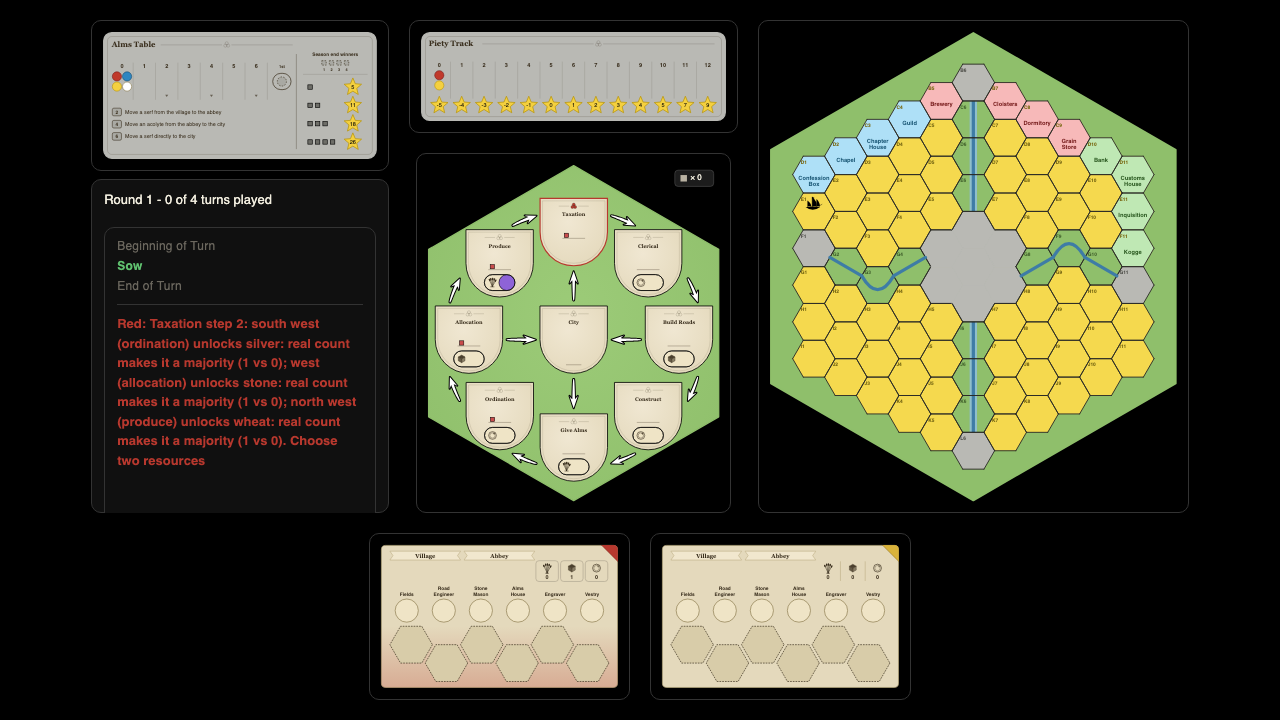
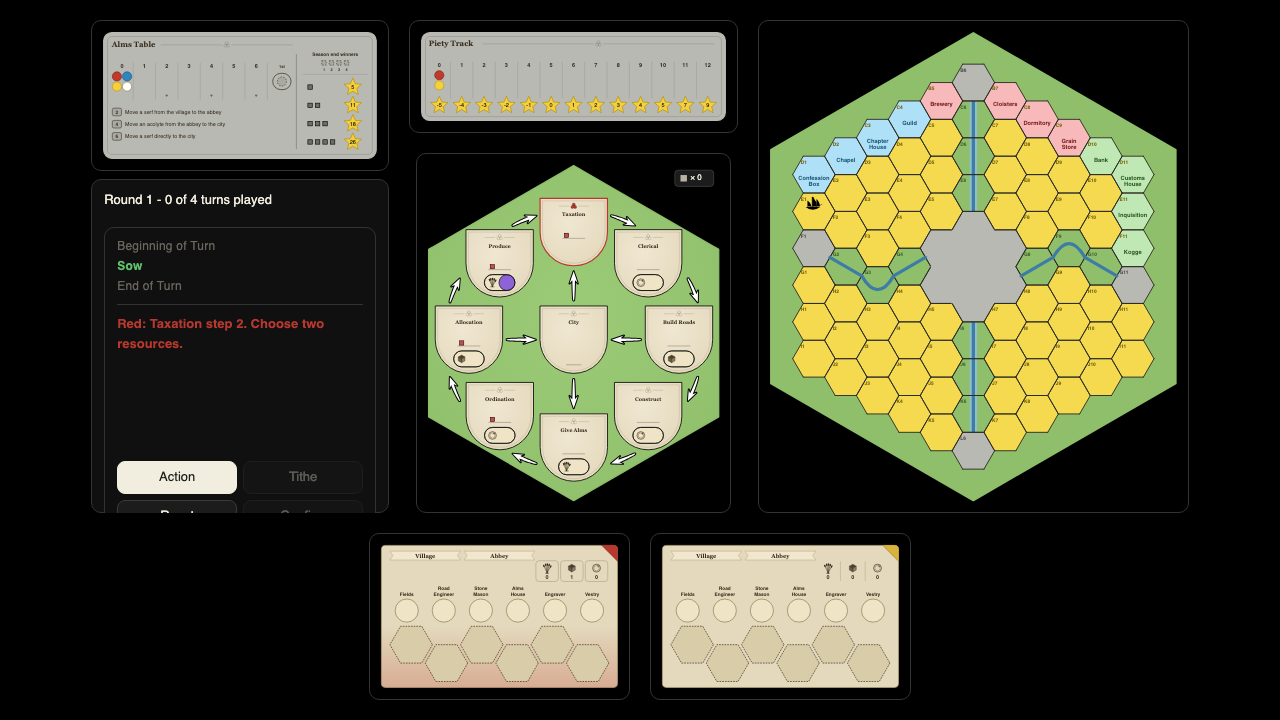
Taxation step 2 says less

Changed region(s): [[0.0938, 0.4278, 0.2812, 0.7028]]

diff --git a/tests/test_play_server.py b/tests/test_play_server.py
@@ -57,7 +57,7 @@ from pilgrim.rules.buildings import (
 )
 from pilgrim.rules.ordination import ordination_outcome
 from pilgrim.rules.special_activities import allocation_outcome
-from pilgrim.rules.transition import apply_action, legal_actions
+from pilgrim.rules.transition import TaxationMajorityUnlock, apply_action, legal_actions
 from pilgrim.rules.transition import apply_turn_step, turn_steps
 from tools import play_server
 from tools.play_server import PlayServer, actions_document, state_token
@@ -4499,8 +4499,8 @@ def test_a_mix_is_offered_in_english_and_never_as_a_tuple() -> None:
     assert "take stone and silver" in labels
 
 
-def test_taxation_step_two_prompt_explains_real_count_majorities() -> None:
-    scenario = load_scenario("scenarios/taxation_three_bonus_types_001.json")
+def test_taxation_step_two_prompt_hides_real_count_majorities() -> None:
+    scenario = load_scenario("scenarios/tithe_counter_choice_001.json")
     candidates = play_server.turn_candidates(
         scenario.state,
         scenario.config,
@@ -4510,18 +4510,12 @@ def test_taxation_step_two_prompt_explains_real_count_majorities() -> None:
         step
         for candidate in candidates
         for step in candidate["steps"]
-        if step["kind"] == "combination" and step.get("resource_allocation")
+        if step["kind"] == "combination" and step.get("resource_total") == 2
     ]
 
     assert taxation_steps
     assert {step["prompt"] for step in taxation_steps} == {
-        "player_one: Taxation step 2: south west (ordination) unlocks silver: "
-        "real count makes it a majority (1 vs 0); west (allocation) unlocks stone: "
-        "real count makes it a majority (1 vs 0). Choose two resources",
-        "player_one: Taxation step 2: south west (ordination) unlocks silver: "
-        "real count makes it a majority (1 vs 0); west (allocation) unlocks stone: "
-        "real count makes it a majority (1 vs 0); north west (produce) unlocks wheat: "
-        "real count makes it a majority (1 vs 0). Choose two resources"
+        "player_one: Taxation step 2. Choose two resources."
     }
     step_two = taxation_steps[0]
     assert step_two["resource_delta"] == {"stone": 2, "silver": 0, "wheat": 0}
@@ -4553,7 +4547,7 @@ def test_taxation_step_two_without_a_majority_has_no_zero_resource_instruction()
         if step["kind"] == "combination" and step.get("resource_total") == 0
     }
 
-    assert prompts == {"player_one: Taxation step 2: no other Duty tile is a majority."}
+    assert prompts == {"player_one: Taxation step 2. No other Duty tile is a majority."}
 
 
 @pytest.mark.parametrize(
@@ -4561,17 +4555,13 @@ def test_taxation_step_two_without_a_majority_has_no_zero_resource_instruction()
     (
         (
             "scenarios/scriptorium_taxation_majority_other_tiles_001.json",
-            "player_one: Taxation step 2: south west (ordination) unlocks silver: "
-            "Scriptorium changes 1 to 2, making a majority (2 vs 1); west (allocation) "
-            "unlocks stone: Scriptorium changes 1 to 2, making a majority (2 vs 1). "
-            "Choose two resources",
+            "player_one: Taxation step 2. The Scriptorium makes south west and west majorities. "
+            "Choose two resources.",
         ),
         (
             "scenarios/customs_house_active_taxation_majority_001.json",
-            "player_one: Taxation step 2: south west (ordination) unlocks silver: "
-            "Customs House makes this occupied tile a majority (1 vs 1); west (allocation) "
-            "unlocks stone: Customs House makes this occupied tile a majority (1 vs 1). "
-            "Choose two resources",
+            "player_one: Taxation step 2. The Customs House makes your occupied tiles majorities. "
+            "Choose two resources.",
         ),
     ),
 )
@@ -4593,6 +4583,35 @@ def test_taxation_step_two_prompt_explains_building_majorities(
     }
 
     assert prompts == {expected}
+
+
+def test_taxation_step_two_prompt_names_one_scriptorium_majority(monkeypatch) -> None:
+    scenario = load_scenario("scenarios/playtest/cloisters_loop_2p.json")
+    action = next(
+        candidate
+        for candidate in legal_actions(scenario.state, scenario.config)
+        if candidate.resolution is TurnResolutionType.TAXATION
+        and len(candidate.taxation_step2_resources) == 2
+    )
+    north_east = scenario.config.board.positions.index("north_east")
+    unlock = TaxationMajorityUnlock(
+        duty_position=north_east,
+        duty_category="give_alms",
+        resources=("wheat",),
+        majority_reason="scriptorium",
+        player_acolytes=1,
+        effective_player_acolytes=2,
+        competing_acolytes=1,
+    )
+    monkeypatch.setattr(
+        play_server,
+        "taxation_majority_unlocks_for_action",
+        lambda _state, _config, _action: (unlock,),
+    )
+
+    assert play_server._taxation_step_two_prompt(action, scenario.state, scenario.config) == (
+        "Taxation step 2. The Scriptorium makes north east a majority. Choose two resources."
+    )
 
 
 def test_cornucopia_tithe_resource_step_carries_engine_delta() -> None:

diff --git a/tools/play_server.py b/tools/play_server.py
@@ -823,13 +823,13 @@ def _combination_step(
     }
 
 
-def _spoken_resource_list(resources: tuple[str, ...]) -> str:
-    """Name one engine-provided resource set without giving the page a wording job."""
-    if len(resources) == 1:
-        return resources[0]
-    if len(resources) == 2:
-        return f"{resources[0]} and {resources[1]}"
-    return ", ".join(resources[:-1]) + f", and {resources[-1]}"
+def _spoken_position_list(positions: tuple[str, ...]) -> str:
+    """Name engine-provided board positions without giving the page a wording job."""
+    if len(positions) == 1:
+        return positions[0]
+    if len(positions) == 2:
+        return f"{positions[0]} and {positions[1]}"
+    return ", ".join(positions[:-1]) + f", and {positions[-1]}"
 
 
 def _taxation_step_two_prompt(
@@ -837,38 +837,41 @@ def _taxation_step_two_prompt(
     state: Any,
     config: Any,
 ) -> str:
-    """Put the engine's Taxation-majority explanation into the step-II question."""
+    """Put the engine's modifier-only Taxation explanation into the step-II question."""
     unlocks = taxation_majority_unlocks_for_action(state, config, action)
     resource_count = len(action.taxation_step2_resources)
     if not unlocks:
-        return "Taxation step 2: no other Duty tile is a majority."
+        return "Taxation step 2. No other Duty tile is a majority."
 
-    clauses: list[str] = []
-    for unlock in unlocks:
-        position = config.board.positions[unlock.duty_position].replace("_", " ")
-        duty = unlock.duty_category.replace("_", " ")
-        resource_text = _spoken_resource_list(unlock.resources)
-        counts = (
-            f"{unlock.effective_player_acolytes} vs {unlock.competing_acolytes}"
+    reasons = {unlock.majority_reason for unlock in unlocks}
+    unknown_reasons = reasons - {"real_count", "scriptorium", "customs_house"}
+    if unknown_reasons:
+        raise ValueError(f"Unknown Taxation majority reason: {unknown_reasons.pop()!r}")
+
+    if "customs_house" in reasons:
+        explanation = "The Customs House makes your occupied tiles majorities."
+    else:
+        scriptorium_positions = tuple(
+            config.board.positions[unlock.duty_position].replace("_", " ")
+            for unlock in unlocks
+            if unlock.majority_reason == "scriptorium"
         )
-        if unlock.majority_reason == "real_count":
-            reason = f"real count makes it a majority ({counts})"
-        elif unlock.majority_reason == "scriptorium":
-            reason = (
-                "Scriptorium changes "
-                f"{unlock.player_acolytes} to {unlock.effective_player_acolytes}, "
-                "making a majority "
-                f"({counts})"
+        if not scriptorium_positions:
+            explanation = ""
+        elif len(scriptorium_positions) == 1:
+            explanation = (
+                f"The Scriptorium makes {_spoken_position_list(scriptorium_positions)} a majority."
             )
-        elif unlock.majority_reason == "customs_house":
-            reason = f"Customs House makes this occupied tile a majority ({counts})"
         else:
-            raise ValueError(f"Unknown Taxation majority reason: {unlock.majority_reason!r}")
-        clauses.append(f"{position} ({duty}) unlocks {resource_text}: {reason}")
+            explanation = (
+                "The Scriptorium makes "
+                f"{_spoken_position_list(scriptorium_positions)} majorities."
+            )
 
-    return "Taxation step 2: " + "; ".join(clauses) + ". " + _resource_choice_prompt(
-        resource_count
-    )
+    prefix = "Taxation step 2."
+    if explanation:
+        prefix += f" {explanation}"
+    return f"{prefix} {_resource_choice_prompt(resource_count)}."
 
 
 def _number_in_words(number: int) -> str:

diff --git a/tests/test_player_wording.py b/tests/test_player_wording.py
@@ -29,11 +29,13 @@ _CHANGED_TEXTS: tuple[str, ...] = (
     "Special Activities",
     "player_one: Move two acolytes from the Abbey to Special Activity and/or between "
     "Special Activities",
-    "player_one: Taxation step 2: south east (construct) unlocks silver: "
-    "real count makes it a majority (1 vs 0). Choose one resource",
-    "player_one: Taxation step 2: south west (ordination) unlocks silver: "
-    "real count makes it a majority (1 vs 0); west (allocation) unlocks stone: "
-    "real count makes it a majority (1 vs 0). Choose two resources",
+    "player_one: Taxation step 2. No other Duty tile is a majority.",
+    "player_one: Taxation step 2. Choose one resource.",
+    "player_one: Taxation step 2. Choose two resources.",
+    "player_one: Taxation step 2. The Scriptorium makes south west and west majorities. "
+    "Choose two resources.",
+    "player_one: Taxation step 2. The Customs House makes your occupied tiles majorities. "
+    "Choose two resources.",
     "A building can be hired here.",
     "A building can be used here, free.",
     "Buildings can be used here — some free, some hired.",
@@ -118,21 +120,18 @@ def test_taxation_and_special_activity_prompts_name_the_engine_count() -> None:
         for step in one_resource
         if step.get("resource_total") == 1
     } == {
-        "player_one: Taxation step 2: south east (construct) unlocks silver: "
-        "real count makes it a majority (1 vs 0). Choose one resource"
+        "player_one: Taxation step 2. Choose one resource."
     }
     assert {
         step["prompt"]
         for step in two_resources
         if step.get("resource_total") == 2
     } == {
-        "player_one: Taxation step 2: south west (ordination) unlocks silver: "
-        "real count makes it a majority (1 vs 0); west (allocation) unlocks stone: "
-        "real count makes it a majority (1 vs 0). Choose two resources"
+        "player_one: Taxation step 2. Choose two resources."
     }
     assert {
         step["prompt"] for step in no_majority if step.get("resource_total") == 0
-    } == {"player_one: Taxation step 2: no other Duty tile is a majority."}
+    } == {"player_one: Taxation step 2. No other Duty tile is a majority."}
     assert {step["prompt"] for step in arrangements} == {
         "player_one: Move one acolyte from the Abbey to Special Activity and/or between "
         "Special Activities",

diff --git a/tests/test_play_view_clicks.py b/tests/test_play_view_clicks.py
@@ -606,7 +606,7 @@ def test_taxation_step_two_pills_filter_survivors_and_reach_all_six_multisets(pa
 
         assert (
             page.locator(
-                '[data-turn-prompt*="Taxation step 2:"][data-turn-offered="true"]'
+                '[data-turn-prompt*="Taxation step 2."][data-turn-offered="true"]'
             ).count()
             == 1
         )
@@ -730,9 +730,8 @@ def test_taxation_step_two_renders_the_server_scriptorium_explanation(page, serv
     prompt = page.locator('[data-turn-prompt][data-turn-offered="true"]')
     assert prompt.count() == 1
     assert prompt.text_content() == (
-        "Red: Taxation step 2: south west (ordination) unlocks silver: "
-        "Scriptorium changes 1 to 2, making a majority (2 vs 1); west (allocation) unlocks "
-        "stone: Scriptorium changes 1 to 2, making a majority (2 vs 1). Choose two resources"
+        "Red: Taxation step 2. The Scriptorium makes south west and west majorities. "
+        "Choose two resources."
     )
 
 
@@ -2382,7 +2381,7 @@ def test_confirm_needs_one_turn_action_or_a_complete_committed_step(page, serve)
     # the current engine question and Confirm still has exactly the action it will submit.
     assert page.locator('[data-turn-panel][data-turn-shown="true"]').count() == 0
     assert page.locator('[data-turn-prompt][data-turn-offered="true"]').inner_text() == (
-        "Red: Taxation step 2: no other Duty tile is a majority."
+        "Red: Taxation step 2. No other Duty tile is a majority."
     )
     before_action_token = server.payload["state_token"]
     confirm = page.query_selector('[data-turn-control="confirm"]')

diff --git a/docs/guides/what_the_game_says.md b/docs/guides/what_the_game_says.md
@@ -749,24 +749,11 @@ state or transition produced the text; rows with more than six show the total as
 | turn_candidates | step prompt: arrangement | player_one: Move two acolytes from the Abbey to Special Activity and/or between Special Activities | scenarios/allocation_all_special_occupied_001.json: initial; scenarios/allocation_chapter_house_two_second_targets_001.json: initial; scenarios/allocation_hire_infirmary_market_001.json: initial; scenarios/allocation_hire_infirmary_opponent_001.json: initial; scenarios/allocation_infirmary_001.json: initial; scenarios/allocation_multi_move_001.json: initial; … (13 total) |
 | turn_candidates | step prompt: building | player_one: Choose a building. | scenarios/bank_active_construct_minority_substitution_001.json: initial; scenarios/building_availability_future_001.json: initial; scenarios/building_availability_round2_001.json: initial; scenarios/construct_building_and_road_deferred_001.json: initial; scenarios/construct_building_insufficient_stone_001.json: initial; scenarios/construct_building_level1_001.json: initial; … (13 total) |
 | turn_candidates | step prompt: combination | player_one: Choose payment. | scenarios/alms_sandbox_001.json: initial; scenarios/brewery_sell_then_give_alms_paid_001.json: initial; scenarios/building_hire_donated_001.json: initial; scenarios/building_hire_live_market_001.json: initial; scenarios/building_hire_merchant_none_001.json: initial; scenarios/building_hire_not_live_001.json: initial; … (95 total) |
-| turn_candidates | step prompt: combination | player_one: Taxation step 2: no other Duty tile is a majority. | scenarios/customs_house_donated_no_modifier_001.json: initial; scenarios/customs_house_hire_market_taxation_majority_001.json: initial; scenarios/customs_house_hire_opponent_taxation_majority_001.json: initial; scenarios/customs_house_insufficient_hire_resource_001.json: initial; scenarios/customs_house_merchant_none_no_hire_001.json: initial; scenarios/customs_house_not_live_no_modifier_001.json: initial; … (21 total) |
-| turn_candidates | step prompt: combination | player_one: Taxation step 2: north (produce) unlocks wheat: real count makes it a majority (1 vs 0); east (clerical) unlocks stone: real count makes it a majority (1 vs 0); south (construct) unlocks stone: real count makes it a majority (1 vs 0); west (ordination) unlocks silver: real count makes it a majority (1 vs 0). Choose two resources | scenarios/tithe_counter_choice_001.json: initial |
-| turn_candidates | step prompt: combination | player_one: Taxation step 2: north east (give alms) unlocks stone, silver, and wheat: real count makes it a majority (2 vs 1). Choose one resource | scenarios/playtest/cloisters_loop_2p.json: initial |
-| turn_candidates | step prompt: combination | player_one: Taxation step 2: north east (give alms) unlocks stone, silver, and wheat: real count makes it a majority (2 vs 1). Choose two resources | scenarios/playtest/cloisters_loop_2p.json: initial |
-| turn_candidates | step prompt: combination | player_one: Taxation step 2: north west (ordination) unlocks stone: real count makes it a majority (1 vs 0). Choose one resource | scenarios/playtest/cloisters_loop_2p.json: initial |
-| turn_candidates | step prompt: combination | player_one: Taxation step 2: south (produce) unlocks stone: real count makes it a majority (2 vs 1). Choose one resource | scenarios/deep_round_eighteen_seed_seven_two_player_001.json: initial |
-| turn_candidates | step prompt: combination | player_one: Taxation step 2: south east (build roads) unlocks silver: real count makes it a majority (2 vs 1). Choose one resource | scenarios/deep_round_eighteen_seed_seven_two_player_001.json: initial |
-| turn_candidates | step prompt: combination | player_one: Taxation step 2: south east (construct) unlocks silver: real count makes it a majority (1 vs 0). Choose one resource | scenarios/playtest/cloisters_loop_2p.json: initial; scenarios/playtest/movement_2p.json: initial |
-| turn_candidates | step prompt: combination | player_one: Taxation step 2: south east (construct) unlocks silver: real count makes it a majority (2 vs 0). Choose one resource | scenarios/playtest/conversions_2p.json: initial; scenarios/playtest/kogge_and_cloisters_2p.json: initial |
-| turn_candidates | step prompt: combination | player_one: Taxation step 2: south east (construct) unlocks silver: real count makes it a majority (2 vs 0). Choose two resources | scenarios/playtest/cloisters_reach_2p.json: initial; scenarios/playtest/kogge_and_cloisters_2p.json: initial |
-| turn_candidates | step prompt: combination | player_one: Taxation step 2: south east (construct) unlocks silver: real count makes it a majority (2 vs 0); north west (ordination) unlocks stone: real count makes it a majority (1 vs 0). Choose one resource | scenarios/playtest/kogge_and_cloisters_2p.json: initial |
-| turn_candidates | step prompt: combination | player_one: Taxation step 2: south east (construct) unlocks silver: real count makes it a majority (2 vs 0); north west (ordination) unlocks stone: real count makes it a majority (1 vs 0). Choose two resources | scenarios/playtest/cloisters_reach_2p.json: initial |
-| turn_candidates | step prompt: combination | player_one: Taxation step 2: south west (ordination) unlocks silver: Customs House makes this occupied tile a majority (1 vs 1); west (allocation) unlocks stone: Customs House makes this occupied tile a majority (1 vs 1). Choose two resources | scenarios/customs_house_active_taxation_majority_001.json: initial |
-| turn_candidates | step prompt: combination | player_one: Taxation step 2: south west (ordination) unlocks silver: Customs House makes this occupied tile a majority (1 vs 2); west (allocation) unlocks stone: Customs House makes this occupied tile a majority (1 vs 2). Choose two resources | scenarios/customs_house_active_taxation_beats_larger_stack_001.json: initial |
-| turn_candidates | step prompt: combination | player_one: Taxation step 2: south west (ordination) unlocks silver: Scriptorium changes 1 to 2, making a majority (2 vs 1); west (allocation) unlocks stone: Scriptorium changes 1 to 2, making a majority (2 vs 1). Choose two resources | scenarios/scriptorium_taxation_majority_other_tiles_001.json: initial |
-| turn_candidates | step prompt: combination | player_one: Taxation step 2: south west (ordination) unlocks silver: real count makes it a majority (1 vs 0); west (allocation) unlocks stone: real count makes it a majority (1 vs 0). Choose two resources | scenarios/taxation_majority_bonus_001.json: initial; scenarios/taxation_three_bonus_types_001.json: initial |
-| turn_candidates | step prompt: combination | player_one: Taxation step 2: south west (ordination) unlocks silver: real count makes it a majority (1 vs 0); west (allocation) unlocks stone: real count makes it a majority (1 vs 0); north west (produce) unlocks wheat: real count makes it a majority (1 vs 0). Choose two resources | scenarios/taxation_three_bonus_types_001.json: initial |
-| turn_candidates | step prompt: combination | player_one: Taxation step 2: west (allocation) unlocks stone: real count makes it a majority (1 vs 0). Choose two resources | scenarios/taxation_single_bonus_type_001.json: initial; scenarios/taxation_tile_no_tithe_counter_001.json: initial |
+| turn_candidates | step prompt: combination | player_one: Taxation step 2. Choose one resource. | scenarios/deep_round_eighteen_seed_seven_two_player_001.json: initial; scenarios/playtest/cloisters_loop_2p.json: initial; scenarios/playtest/conversions_2p.json: initial; scenarios/playtest/kogge_and_cloisters_2p.json: initial; scenarios/playtest/movement_2p.json: initial |
+| turn_candidates | step prompt: combination | player_one: Taxation step 2. Choose two resources. | scenarios/playtest/cloisters_loop_2p.json: initial; scenarios/playtest/cloisters_reach_2p.json: initial; scenarios/playtest/kogge_and_cloisters_2p.json: initial; scenarios/taxation_majority_bonus_001.json: initial; scenarios/taxation_single_bonus_type_001.json: initial; scenarios/taxation_three_bonus_types_001.json: initial; … (8 total) |
+| turn_candidates | step prompt: combination | player_one: Taxation step 2. No other Duty tile is a majority. | scenarios/customs_house_donated_no_modifier_001.json: initial; scenarios/customs_house_hire_market_taxation_majority_001.json: initial; scenarios/customs_house_hire_opponent_taxation_majority_001.json: initial; scenarios/customs_house_insufficient_hire_resource_001.json: initial; scenarios/customs_house_merchant_none_no_hire_001.json: initial; scenarios/customs_house_not_live_no_modifier_001.json: initial; … (21 total) |
+| turn_candidates | step prompt: combination | player_one: Taxation step 2. The Customs House makes your occupied tiles majorities. Choose two resources. | scenarios/customs_house_active_taxation_beats_larger_stack_001.json: initial; scenarios/customs_house_active_taxation_majority_001.json: initial |
+| turn_candidates | step prompt: combination | player_one: Taxation step 2. The Scriptorium makes south west and west majorities. Choose two resources. | scenarios/scriptorium_taxation_majority_other_tiles_001.json: initial |
 | turn_candidates | step prompt: combination | player_two: Choose payment. | scenarios/confession_box_game_end_no_start_player_phase_001.json: initial; scenarios/confession_box_hire_blocked_merchant_none_001.json: initial; scenarios/confession_box_hire_market_no_outcome_change_pruned_001.json: initial; scenarios/confession_box_hire_market_start_player_001.json: initial; scenarios/confession_box_hire_opponent_start_player_001.json: initial; scenarios/indulgences_buy_then_round_end_start_player_001.json: initial; … (10 total) |
 | turn_candidates | step prompt: duty | player_one: Choose a duty to take. | scenarios/allocation_abbey_to_special_activity_001.json: initial; scenarios/allocation_all_special_occupied_001.json: initial; scenarios/allocation_chapter_house_donated_001.json: initial; scenarios/allocation_chapter_house_move_between_special_activities_001.json: initial; scenarios/allocation_chapter_house_second_acolyte_001.json: initial; scenarios/allocation_chapter_house_two_second_targets_001.json: initial; … (279 total) |
 | turn_candidates | step prompt: duty | player_two: Choose a duty to take. | scenarios/alms_season_end_fourth_season_game_end_001.json: initial; scenarios/alms_season_end_no_abbey_forfeit_001.json: initial; scenarios/alms_season_end_no_metadata_no_trigger_001.json: initial; scenarios/alms_season_end_tie_piety_break_001.json: initial; scenarios/alms_season_end_tie_turn_order_break_001.json: initial; scenarios/alms_season_end_unique_leader_001.json: initial; … (32 total) |
